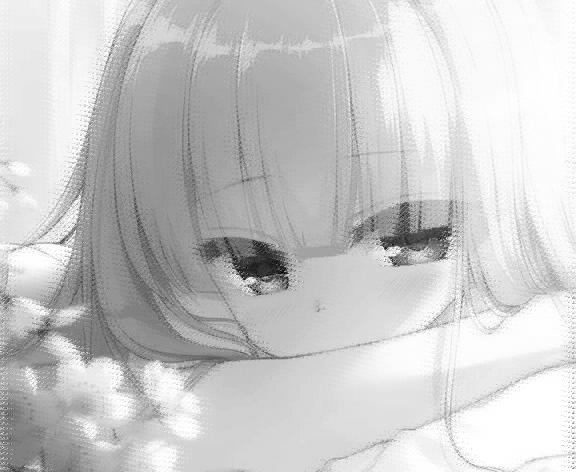
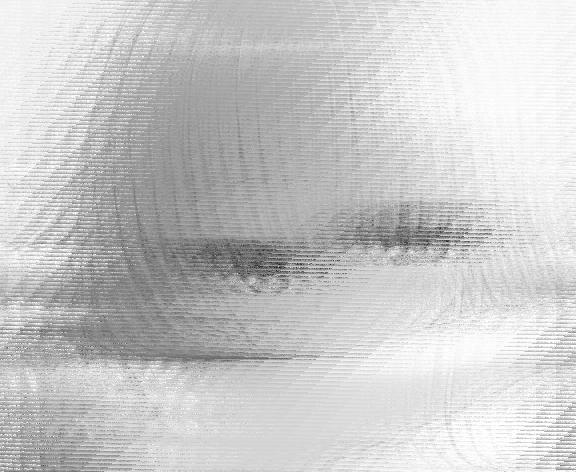
All restructured. Now all functions used as tools are in tools.py,and the main stream for controlling is set in main.py. Hope this helps.

diff --git a/tools.py b/tools.py
@@ -127,7 +127,7 @@ def cs_omp(dictionary, original_signal, sampling_matrix=None, mse_tolerance=1e-6
 
 
 def generate_fourier_element_in_dictionary(t, dictionary_scale, rank):
-    frequencies = np.linspace(0, dictionary_scale - 1, dictionary_scale)
+    frequencies = np.linspace(0, (dictionary_scale - 1) / 10, dictionary_scale)
     return np.cos(2 * np.pi * frequencies[rank] * t)
 
 
@@ -138,7 +138,7 @@ def split_array(arr, y):
 
 
 def cs_huge_scale_omp(dictionary_scale, original_signal, t, generate_dictionary_element, sampling_matrix=None,
-                      mse_tolerance=1e-6, time_tolerance=600, ram_usage_tolerance=None, ram_spare_tolerance=None,
+                      mse_tolerance=1e-6, time_tolerance=30, ram_usage_tolerance=None, ram_spare_tolerance=None,
                       picture_output=1):
     if sampling_matrix is not None:
         original_signal = original_signal * sampling_matrix
@@ -204,6 +204,32 @@ def cs_huge_scale_omp(dictionary_scale, original_signal, t, generate_dictionary_
     recovered_signal = dictionary @ weight[:len(dic_support)]
     recover = [recovered_signal, dictionary, weight, time, mse]
     return recover
+
+
+def cs_pieces_omp(dictionary_scale, original_signal, pieces_length, t_range, generate_dictionary_element,
+                  sampling_matrix=None,
+                  mse_tolerance=1e-6, time_tolerance=600, ram_usage_tolerance=None, ram_spare_tolerance=None,
+                  picture_output=1):
+    truncated_arr = split_array(original_signal, pieces_length)
+    solved_arr_list = []
+    result = None
+    t = None
+    for i in tqdm(range(len(truncated_arr))):
+        arr = truncated_arr[i]
+        t = generate_t_line(0, t_range, arr.shape[0])
+        solved_arr = cs_huge_scale_omp(dictionary_scale, arr, t, generate_dictionary_element, None,
+                                       mse_tolerance, time_tolerance, picture_output=0)[0]
+        # 将solved_arr添加到solved_arr_list中
+        solved_arr_list.append(solved_arr)
+
+        # 将solved_arr_list中的子数组拼接成一维数组
+    result = np.concatenate(solved_arr_list)
+    residual = original_signal - result
+    mse = count_mse(original_signal, residual)
+    t = generate_t_line(0, t_range, len(result))
+    if picture_output == 1:
+        draw_double_signal(t, original_signal, result)
+    return result, mse
 
 
 def count_mse(original_signal, recovered_signal):

diff --git a/main.py b/main.py
@@ -1,27 +1,20 @@
-import numpy as np
-from tqdm import tqdm
+import os
 
-from tools import load_in_gray_image, split_array, generate_t_line, cs_huge_scale_omp, \
-    generate_fourier_element_in_dictionary, load_out_gray_image
+from tools import load_in_gray_image, generate_fourier_element_in_dictionary, load_out_gray_image, cs_pieces_omp
 
-img = load_in_gray_image('pictures/raw/2.JPG', 1)
+picture_rank = 2
+img = load_in_gray_image('pictures/raw/' + str(picture_rank) + '.JPG', 1)
 img_array = img[0]
 
-length = 20
-truncated_arr = split_array(img_array, length)
-solved_arr_list = []
-result = None
-for i in tqdm(range(len(truncated_arr))):
-    # for arr in truncated_arr:
-    arr = truncated_arr[i]
-    # 对每个子项进行操作，得到solved_arr
-    t = generate_t_line(0, 4, arr.shape[0])
-    solved_arr = cs_huge_scale_omp(200, arr, t, generate_fourier_element_in_dictionary,
-                                       time_tolerance=10, picture_output=0)[0]
-    # 将solved_arr添加到solved_arr_list中
-    solved_arr_list.append(solved_arr)
-
-    # 将solved_arr_list中的子数组拼接成一维数组
-result = np.concatenate(solved_arr_list)
-load_out_gray_image('pictures/saved/2.JPG', result, resolution=img[1], picture_output=1)
+recovered_img_array, mse = cs_pieces_omp(40, img_array, 30, 0.5, generate_fourier_element_in_dictionary,
+                                         None, mse_tolerance=1e-6, time_tolerance=20, picture_output=1)
+i = 0
+while True:
+    if os.path.exists('pictures/saved/' + str(picture_rank) + '_' + str(i) + '.JPG'):
+        i = i + 1
+        pass
+    else:
+        load_out_gray_image('pictures/saved/' + str(picture_rank) + '_' + str(i) + '.JPG', recovered_img_array,
+                            resolution=img[1], picture_output=1)
+        break
 input("Press Enter to continue...")
